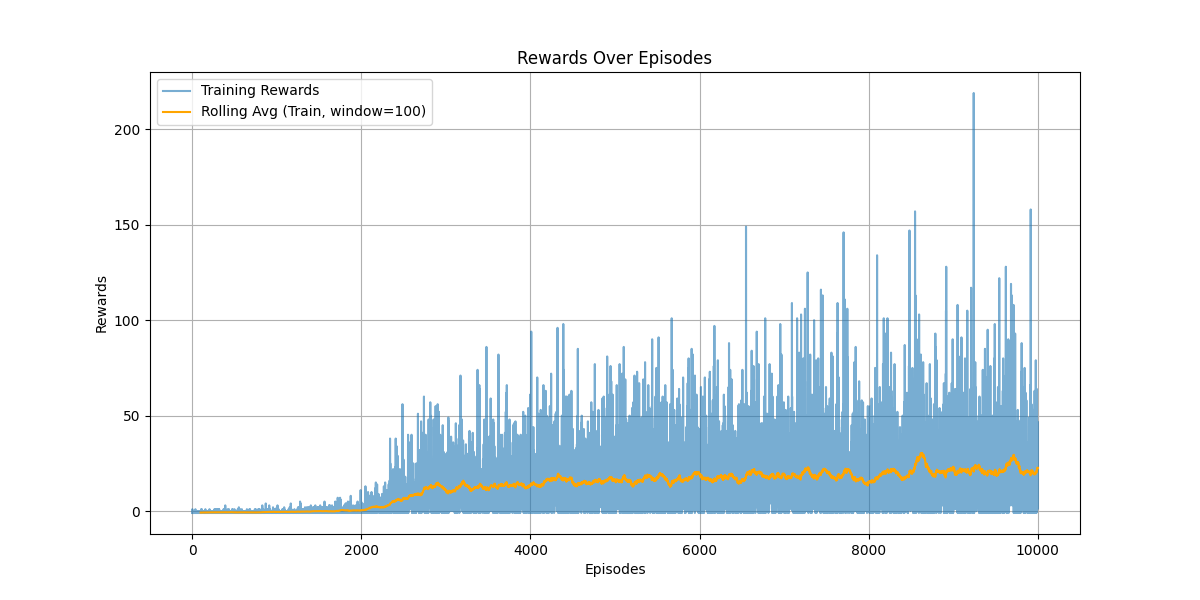
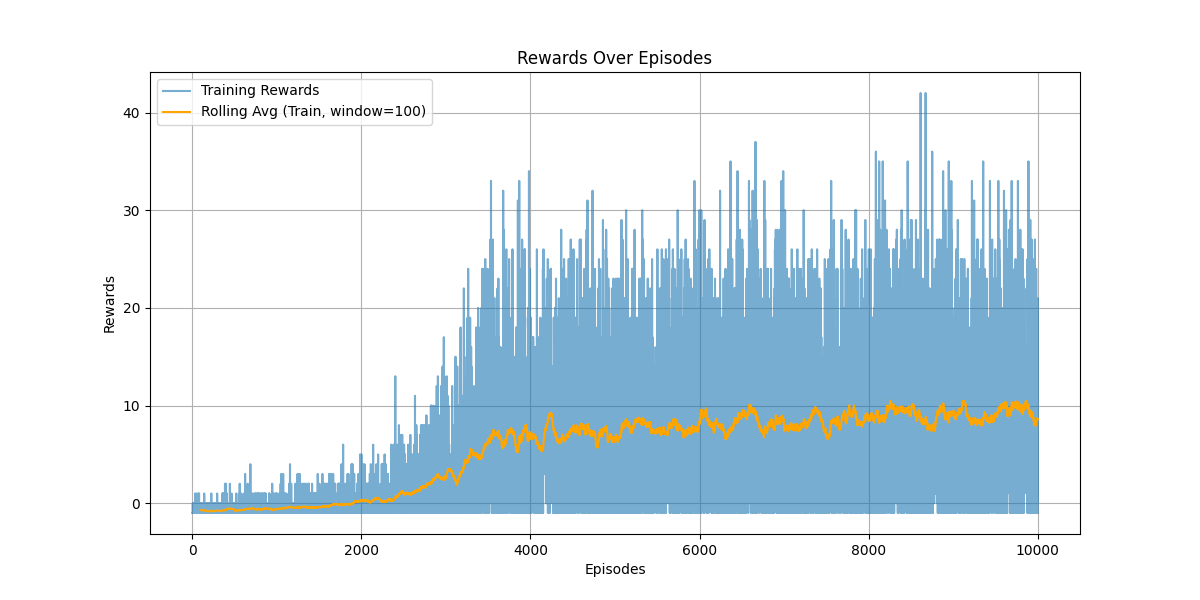
Changing the environment

diff --git a/environments/base_environment.py b/environments/base_environment.py
@@ -11,15 +11,12 @@ class BasePongEnv(gym.Env):
     """
     def __init__(self, paddle_height=0.2, render_mode=False):
         super(BasePongEnv, self).__init__()
-        # Parametri del campo
         self.field_width = 1.0
         self.field_height = 1.0
         self.paddle_height = paddle_height
         self.ball_radius = 0.02
-
-        self.min_speed = 0.03
-        self.max_speed = 0.04
-        self.angle_limit = 0.7 
+        self.angle_limit = 0.7
+        self.min_speed = 0.04
 
         # Azioni
         self.action_list = [0, 0.04, -0.04]
@@ -75,49 +72,25 @@ class BasePongEnv(gym.Env):
 
         # Collision with top and bottom walls
         if self.ball_y <= 0 or self.ball_y >= self.field_height:
-            self.velocity_y = self._reflect_velocity(self.velocity_y, axis='vertical')
-
-        # Enforce minimum speed
-        self._enforce_min_speed()
+            self.velocity_y *= -1  # Reflect vertical velocity
 
     def _handle_paddle_collision(self, paddle_y):
         """
         Handles the collision between the ball and a paddle.
         """
-        self.velocity_x = self._reflect_velocity(self.velocity_x, axis='horizontal')
+        self.velocity_x = -self.velocity_x
 
-        # Compute impact factor and adjust velocity
         paddle_center = paddle_y + self.paddle_height / 2
         impact_factor = (self.ball_y - paddle_center) / (self.paddle_height / 2)
         impact_factor = np.clip(impact_factor, -1, 1)
 
         self.velocity_y += impact_factor * 0.02
-        self.velocity_x += random.uniform(-0.002, 0.002)
 
-        # Enforce angle and speed limits
+        # Increment speed slightly with every hit
+        speed_increase = 0.01
+        self.velocity_x *= (1 + speed_increase)
+        self.velocity_y *= (1 + speed_increase)
         self._clamp_angle()
-        self._enforce_min_speed()
-
-    def _reflect_velocity(self, velocity, random_adjustment=0.003, axis='horizontal'):
-        """
-        Reflects velocity and ensures it adheres to the speed limits.
-        
-        :param velocity: The velocity to reflect (either horizontal or vertical).
-        :param random_adjustment: Small randomness added to the velocity after reflection.
-        :param axis: 'horizontal' for x-axis reflection, 'vertical' for y-axis reflection.
-        :return: Adjusted velocity.
-        """
-        velocity *= -1  # Reverse the direction of the velocity
-        velocity += random.uniform(-random_adjustment, random_adjustment)
-
-        # Ensure the ball's position stays within bounds
-        if axis == 'horizontal':
-            self.ball_x = max(0, min(self.field_width, self.ball_x))
-        elif axis == 'vertical':
-            self.ball_y = max(0, min(self.field_height, self.ball_y))
-
-        # Clamp the velocity within the allowed limits
-        return np.clip(velocity, -self.max_speed, self.max_speed)
 
     def _enforce_min_speed(self):
         """
@@ -127,15 +100,6 @@ class BasePongEnv(gym.Env):
         if speed < self.min_speed:
             scale = self.min_speed / speed
             self.velocity_x *= scale
-            self.velocity_y *= scale
-
-    def _clamp_angle(self):
-        """
-        Prevents the ball from becoming too oblique by clamping the angle.
-        """
-        ratio = abs(self.velocity_y / self.velocity_x)
-        if ratio > self.angle_limit:
-            scale = self.angle_limit / ratio
             self.velocity_y *= scale
 
     def _clamp_paddle_positions(self):
@@ -165,10 +129,16 @@ class BasePongEnv(gym.Env):
         continuous_state = self._get_continuous_state()
         return self.discretizer.discretize(continuous_state)
 
+    def _clamp_angle(self):
+        """
+        Prevents the ball from becoming too oblique by clamping the angle.
+        """
+        ratio = abs(self.velocity_y / self.velocity_x)
+        if ratio > self.angle_limit:
+            scale = self.angle_limit / ratio
+            self.velocity_y *= scale
+
     def render(self):
-        """
-        Renderizza l'ambiente usando il Visualizer.
-        """
         if self.render_mode and self.visualizer:
             self.visualizer.render(
                 ball_pos=(self.ball_x, self.ball_y),
@@ -177,8 +147,5 @@ class BasePongEnv(gym.Env):
             )
 
     def close(self):
-        """
-        Chiude il visualizzatore, se esistente.
-        """
         if self.render_mode and self.visualizer:
             self.visualizer.close()

diff --git a/environments/single_paddle_env.py b/environments/single_paddle_env.py
@@ -1,40 +1,29 @@
 from environments.base_environment import BasePongEnv
 from utils.parameters import REWARD_Values
 import numpy as np
-
 class SinglePaddleEnv(BasePongEnv):
     def __init__(self):
         super(SinglePaddleEnv, self).__init__()
         self.score = 0
-        self.speed_increment = 0.001  # Increment speed after each hit
 
     def step(self, action):
-        """
-        Perform a step in the environment based on the player's action.
-        """
         if self.done:
             raise RuntimeError("You need to reset the environment before calling step().")
 
-        # Update paddle position
         self.left_paddle_y += self.action_list[action]
         self._clamp_paddle_positions()
 
-        # Update ball position
         self._update_ball_position()
 
-        # Handle collisions
         reward = 0
         if self.ball_x <= 0:  # Collision with left paddle
             if self.left_paddle_y <= self.ball_y <= self.left_paddle_y + self.paddle_height:
                 self._handle_paddle_collision(self.left_paddle_y)
-                reward = REWARD_Values["hit"]
+                reward = 1
                 self.score += 1
-
-                # Increase speed incrementally
-                self.max_speed += self.speed_increment
             else:
                 self.done = True
-                reward = REWARD_Values["miss"]
+                reward = -1
 
         if self.ball_x >= 1:  # Collision with right wall
             self.velocity_x *= -1
@@ -42,8 +31,5 @@ class SinglePaddleEnv(BasePongEnv):
         return self._get_discretized_state(), reward, self.done, {"score": self.score}
 
     def reset(self):
-        """
-        Reset the environment and player's score.
-        """
         self.score = 0
         return super(SinglePaddleEnv, self).reset()
